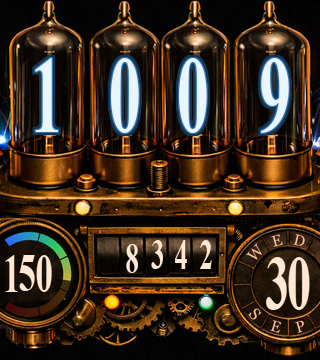
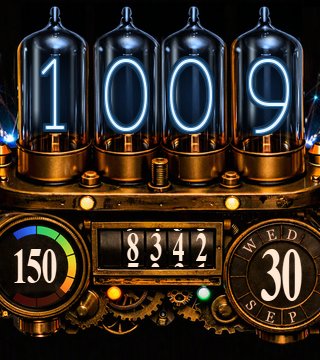
docs: glass tubes, Nixie One, rolling belts, green-at-60 gauge; lessons L54-L58; fresh screenshots

diff --git a/docs/LESSONS_LEARNT.md b/docs/LESSONS_LEARNT.md
@@ -395,3 +395,43 @@ pre-commit hooks, a full-history gitleaks CI job that also fails if any key or b
 tracked, belt-and-braces `.gitignore` patterns (`*.pem *.der *.key .env* *.iq /release/`), and
 machine paths written as `%APPDATA%` rather than a home directory. Image metadata was checked too:
 the AI images carry Microsoft's C2PA provenance (generator, timestamps), which was kept on purpose.
+
+**L54. Generate positions from the layout; never hand-carry them.** A 5 % zoom-out touched
+everything measured on the old frame: tube digits, drums, arc endpoints, the HR gauge centre and
+radii, the date dial, the ring radius and the font sizes. Each was converted once from where it
+was measured to the 1024 grid, and `prepare_artwork.geometry()` maps it through the current
+scales into a generated `Layout.mc`. The proof that the refactor was faithful is cheap and
+exact: feed the *old* layout back through `geometry()` and every hand-measured value that shipped
+on it comes out unchanged. A future zoom is one line.
+
+**L55. A gauge must read at the user's normal state, and its colours must follow their mental
+model.** The zone gauge started at zone 1 (~95 bpm), so at rest it lit nothing and looked broken
+on the watch (reported as "does not light up at all"). It then got a below-zone-1 part. The user
+expected **green to start at 60 bpm**: colours keyed to bpm, not to zone fractions. The arc is
+now seven equal parts, 40–60 (blue), 60–zone 1 (green), then the five zones. That keeps the
+baked gradient fixed for every user while 60 bpm lands exactly on the blue/green boundary.
+
+**L56. DECISION — clear blue glass tubes and Nixie One digits (user-approved; matched to a user reference image kept local-only, mockups in
+`ciq/artwork/glass_digits/`).** The art's tubes read as polished brass, with saturation ~120/255
+on the glass walls. Desaturating alone (mockups A–C) made them grey, not glass. What matched the
+user's reference was *re-lighting*: keep luminance, cast it cool blue, push the mid-tones down for
+a clear dark interior, and add the light a real envelope shows. That means a specular streak, a
+faint opposite one, rim light on both walls, a hotspot under the dome, and a blue haze where the
+digit lights the glass. The masks are per-tube rectangles on the 1024 grid, measured on the walls,
+stopping above the collars. The time digits are now **Nixie One** (SIL OFL, `ciq/fonts-src/`):
+thin and even like wire cathodes. Licensing note for a public repo: the remaining bitmap fonts
+(Times New Roman Bold for the other numbers, Georgia for the ring letters) are rasterised Windows
+fonts. Their redistribution is a grey area and they should move to OFL fonts too.
+
+**L57. Rolling step belts: use the art's real geometry, clip per window, animate only awake.**
+The art has five drum windows; the face used four, so counts over 9,999 lost a digit. Each window
+is now a clip rectangle: the digit is drawn with its belt neighbours 30 px above and below,
+showing as slivers at the window edges. A changed digit rolls down one place over six animation
+ticks (ease-out), driven by the same high-power timer as the arcs, and snaps when asleep.
+`preview.py` mirrors the rule frame for frame (`--anim` includes an 8,399 → 8,400 rollover).
+
+**L58. Write multi-file edit scripts to a file; never inline them in a shell heredoc.** Three
+times a heredoc-wrapped Python edit turned `"\n"` into a real newline inside a string literal,
+and the edited file stopped compiling. A script written with the file tool and then run is
+literal, re-runnable and reviewable, and its `assert s.count(a) == 1` per edit catches a stale
+anchor before anything is half-applied.

diff --git a/docs/USER_MANUAL.md b/docs/USER_MANUAL.md
@@ -16,9 +16,9 @@
 
 | Element | What it shows |
 |---|---|
-| Four nixie tubes | The time, as 24-hour `HH MM`, in glowing nixie blue. |
-| Odometer drums | Today's step count (last four digits). |
-| Left gauge | Your current **heart rate**. The coloured band is lit up to your rate, cold blue to red, one fifth of the arc per heart-rate zone. Your zones come from Garmin Connect (*User Settings → Heart Rate Zones*). A resting rate below zone 1 lights nothing. |
+| Four nixie tubes | The time, as 24-hour `HH MM`, in thin glowing nixie digits. |
+| Five drums | Today's step count, up to 99,999. The digits sit on belts; when the count changes while the screen is awake, each changed digit rolls down into place. |
+| Left gauge | Your current **heart rate**. The band is lit up to your rate in seven equal steps: 40–60 bpm (cold blue), 60 bpm to your zone 1 (green, a normal resting rate), then your five zones (green → yellow → orange → red). Your zones come from Garmin Connect (*User Settings → Heart Rate Zones*). |
 | Right dial | The **day** in the centre. The **weekday** is set into the ring above it and the **month** below, one letter per segment. |
 | Arcs and glow | For about 10 s after you raise your wrist, blue sparks crackle between the tube tips and the tubes' glow breathes, flashing when a spark touches it. |
 
@@ -179,6 +179,6 @@ checks for secrets and that the tooling compiles.
 | `Invalid device id specified: 'venusq2m'` | The device isn't downloaded. Open the SDK Manager → Devices → tick Venu Sq 2 / Venu Sq 2 Music. |
 | `make.py push`: *device not found … but it IS on the USB bus* | The watch dropped its MTP connection. Unplug and replug the cable. |
 | The face isn't in the watch-face list | Wrong model's `.prg`, or the copy went somewhere other than `GARMIN\APPS`. |
-| Heart-rate band never lights | Your rate is below zone 1, which is normal at rest. Check your zones in Garmin Connect. |
+| Heart-rate band shows only a little blue | Your rate is below 60 bpm. Green starts at 60. |
 | Colours look yellow-green on the PC | Expected. The shipping artwork is pre-corrected for the AMOLED, which renders warm tones redder. `make.py screenshots` renders the as-seen version. |
 | `monkeydo` seems stuck | It's slow, not hung. Give it several minutes. |

diff --git a/README.md b/README.md
@@ -13,12 +13,14 @@ tips every time you raise your wrist.**
 
 ## Features
 
-- **Nixie-tube time** in discharge blue. The glow breathes and flashes when a spark strikes.
+- **Nixie-tube time**: thin, wire-like digits (Nixie One) glowing blue inside clear glass
+  tubes, with a glow that breathes and flashes when a spark strikes.
 - **Electric arcs** jump between the tube tips for the ~10 s after a wrist raise. The animation
   runs only while the screen is awake.
-- **Heart-rate zone gauge**: a cold blue → green → orange → red band lit up to your current rate,
-  one fifth of the arc per zone, using **your own zones** from Garmin Connect.
-- **Odometer step counter** on mechanical drums.
+- **Heart-rate gauge**: a band lit up to your current rate. It's cold blue below 60 bpm, turns
+  green at 60, then runs yellow → orange → red through **your own zones** from Garmin Connect.
+- **Rolling step counter**: five mechanical drums whose digits sit on belts. When your count
+  changes, each changed digit rolls down into place.
 - **Calendar dial**: the day in the centre, the weekday and month set one letter per segment into
   the dial's ring.
 - **Always-on safe**: when idle, the face shows a small dim time, so the AMOLED's burn-in

diff --git a/docs/store/LISTING.md b/docs/store/LISTING.md
@@ -9,10 +9,10 @@ A brass steampunk machine with glowing nixie-tube time, a heart-rate zone gauge,
 
 Your time, lit in four glowing nixie tubes on a brass steampunk machine.
 
-- **Nixie-tube time** in discharge blue, with a glow that breathes and flashes.
+- **Nixie-tube time** in thin, wire-like digits glowing inside clear glass tubes.
 - **Electric arcs** crackle between the tube tips for a few seconds every time you raise your wrist.
-- **Heart-rate zone gauge**: a cold-blue-to-red band lights up to your current heart rate, one segment per zone, using your own zones from Garmin Connect.
-- **Odometer step counter** on mechanical drums.
+- **Heart-rate gauge**: lights up to your current rate. Blue below 60 bpm, green from 60, then through your own Garmin Connect zones to red.
+- **Rolling step counter**: five mechanical drums; changed digits roll down into place.
 - **Calendar dial** with the day in the centre and the weekday and month set into its ring.
 - Battery-friendly: animation runs only while the screen is awake, and the always-on mode shows a dim, burn-in-safe time.
 
